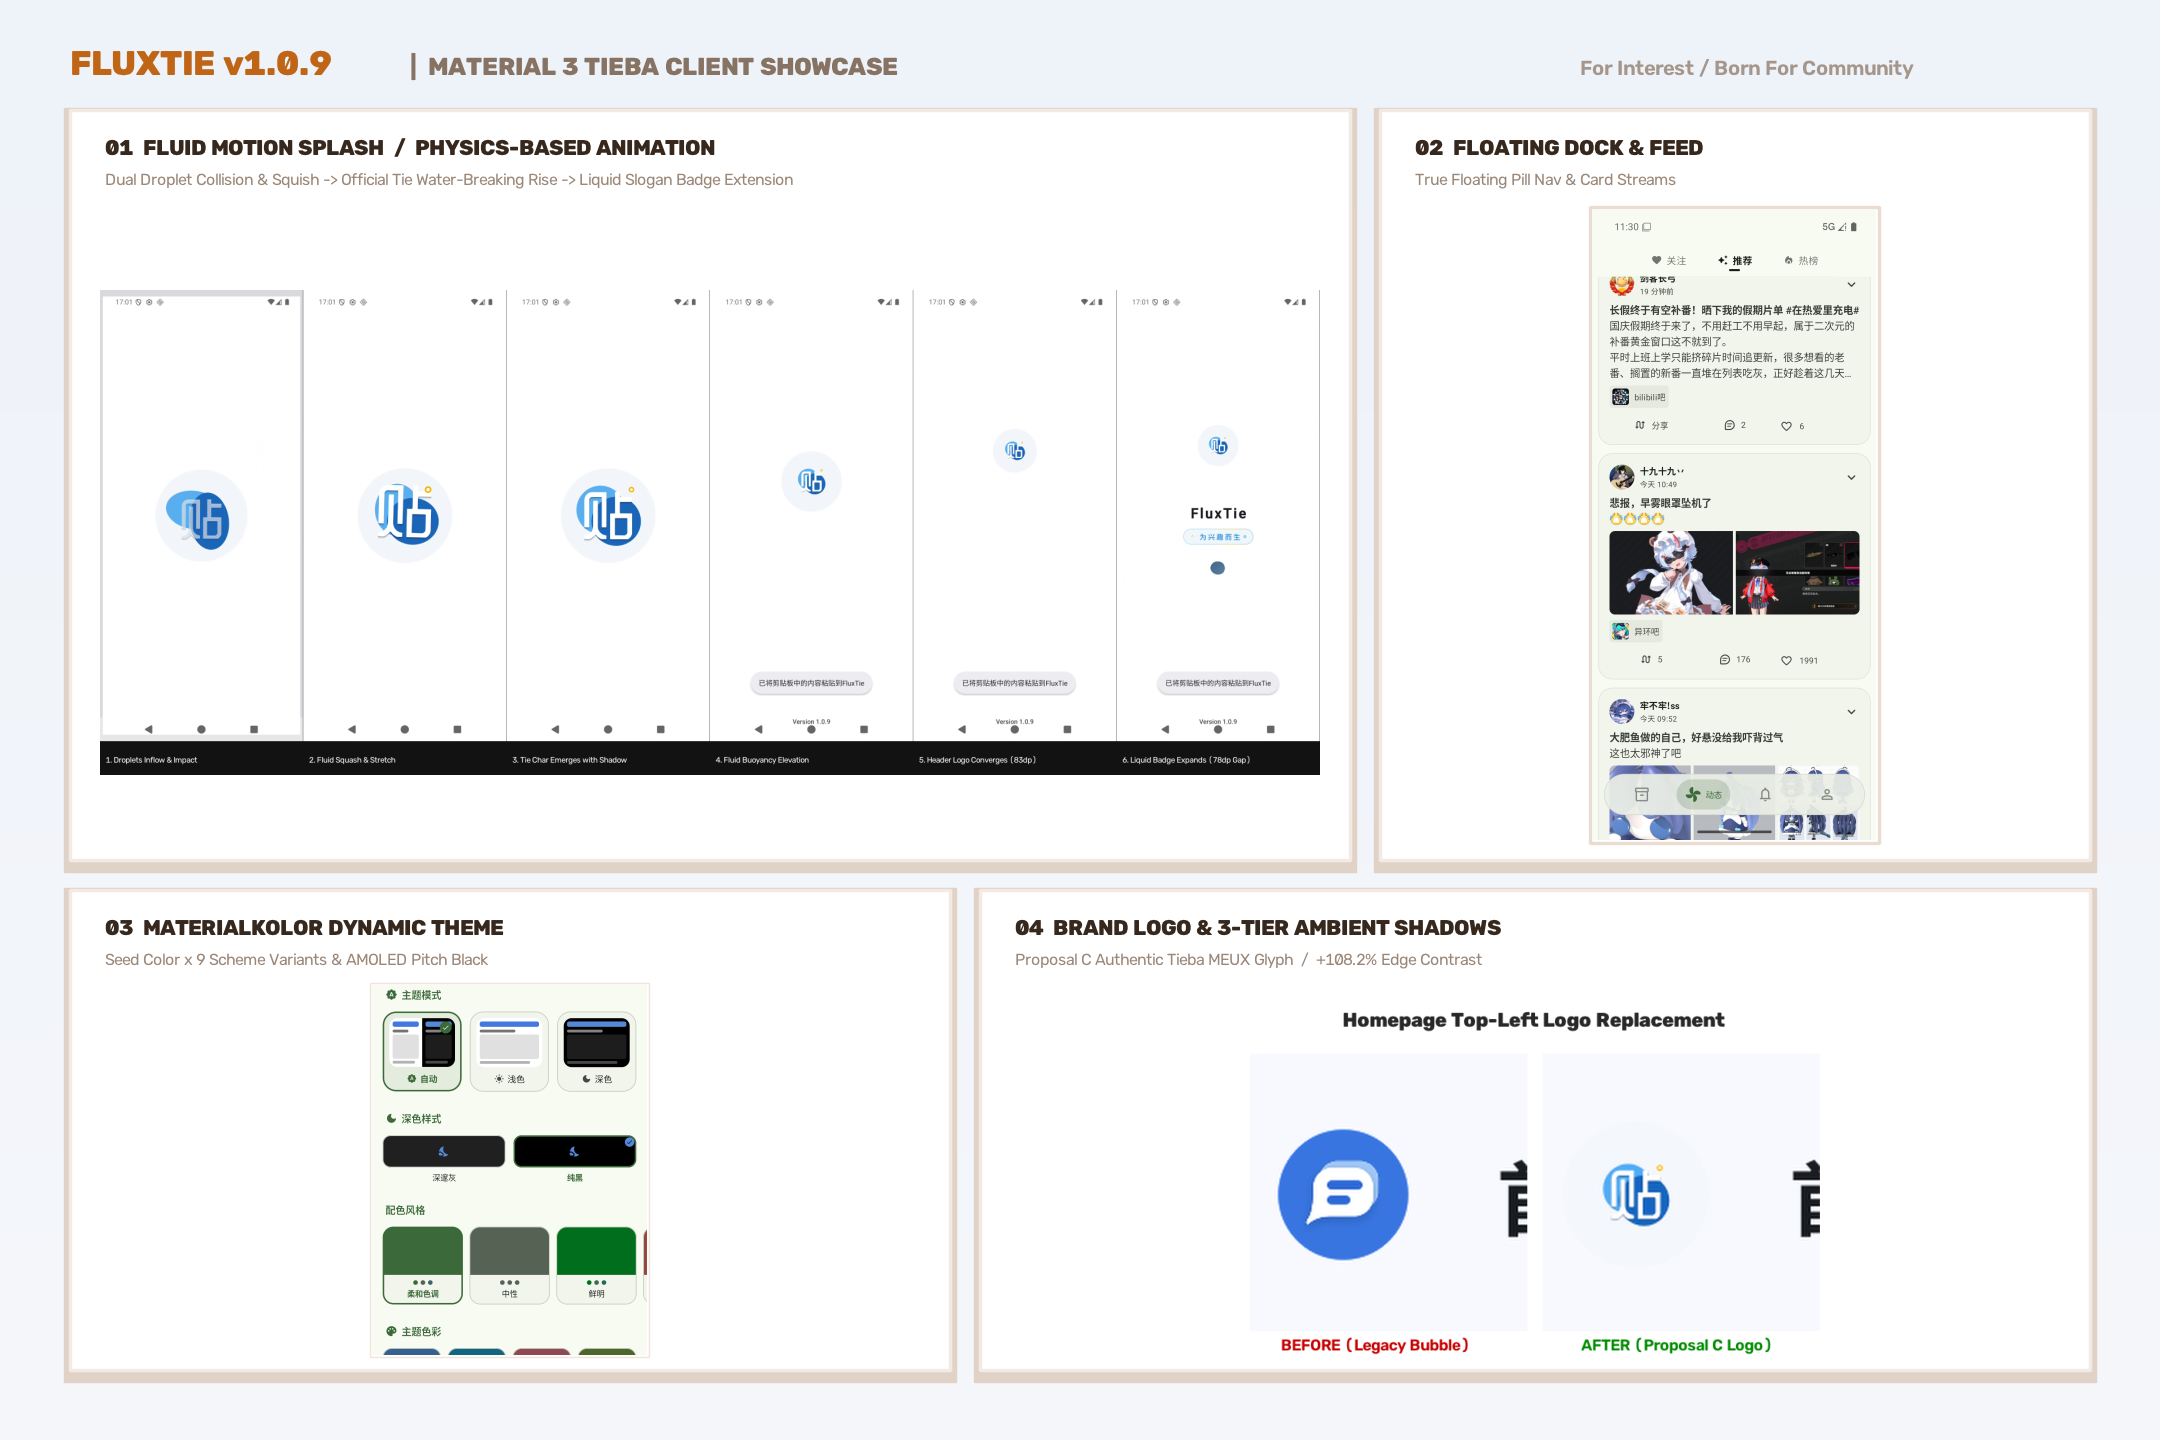
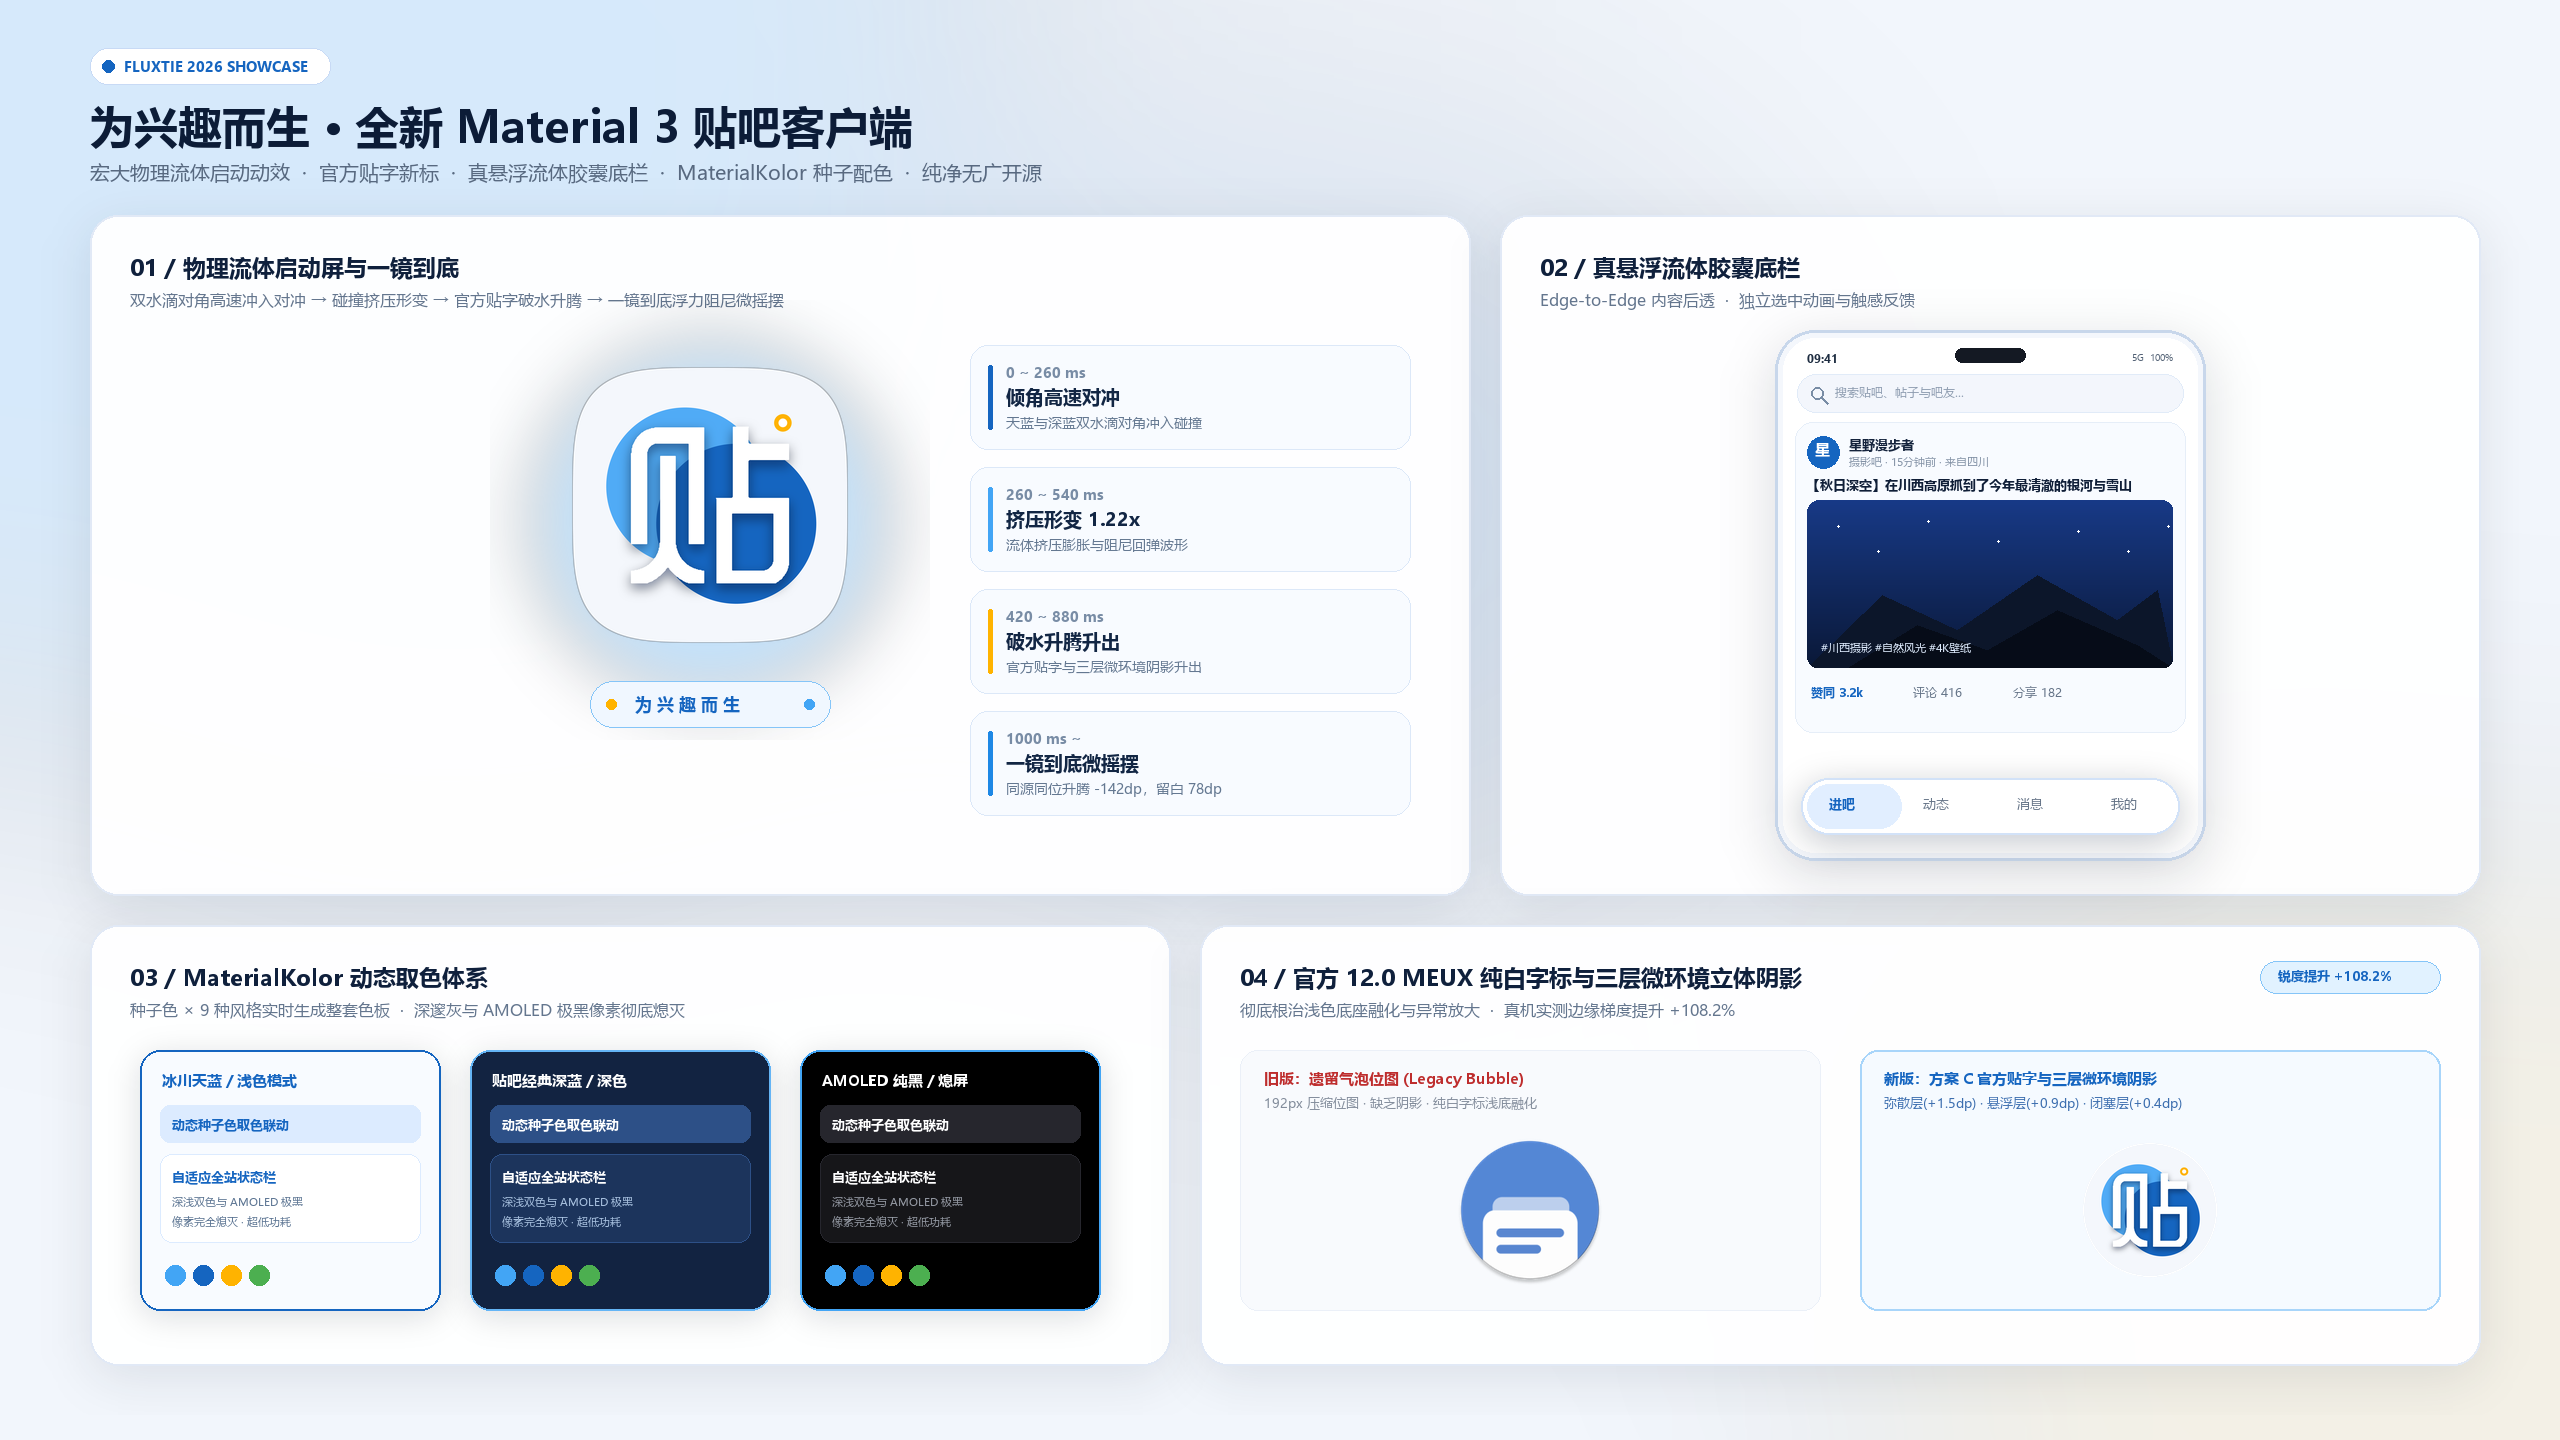
docs: 升级README核心特性Showcase看板并移除过时裸截图

diff --git a/README.md b/README.md
@@ -22,24 +22,16 @@
 > [!WARNING]
 > **本软件及源码仅供学习交流使用，严禁用于商业用途。**
 
-## 🌟 特性 Showcase
+## 🌟 核心特性 Showcase
 
 <p align="center">
   <img src="docs/images/bento_grid_showcase.png" width="920" alt="FluxTie Bento Grid Showcase" />
 </p>
 
-<details>
-<summary><b>查看各功能模块实机截屏</b></summary>
-
-<br>
-
-| 启动屏 | 动态页 | 帖子页 |
-|:---:|:---:|:---:|
-| <img src="docs/images/preview_splash.png" width="240" /> | <img src="docs/images/preview_explore.png" width="240" /> | <img src="docs/images/preview_thread.png" width="240" /> |
-| **我** | **设置** | **主题配色** |
-| <img src="docs/images/preview_user.png" width="240" /> | <img src="docs/images/preview_settings.png" width="240" /> | <img src="docs/images/preview_appearance.png" width="240" /> |
-
-</details>
+- 💧 **物理流体动力学启动**：双水滴对角高速冲入对冲 → 挤压形变阻尼回弹 → 官方贴字破水升腾 → 一镜到底浮力阻尼微摇摆与「为兴趣而生」随动流光微徽章。
+- 🎨 **MaterialKolor 种子配色**：种子色 × 9 种配色风格（柔和色调/鲜明/高保真…）实时生成整套色板，深色支持深邃灰与 AMOLED 极黑像素熄灭。
+- 🎈 **真悬浮胶囊底栏**：Edge-to-Edge 内容从毛玻璃胶囊后自然透出，触感反馈，Tab 切换交叉淡化平滑过渡。
+- 💬 **纯净体验打磨**：全量换装官方 12.0 MEUX 纯白字标与三层微环境立体阴影（锐度提升 +108.2%），个人表情包云同步与长按原地放大预览，纯净无广开源。
 
 ## ✨ 特性
 
